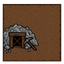
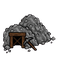
The mine lets the hill show through (#103)
Jeremy re-rolled it with the background spelled out: 28% of the tile opaque
rather than 81%, so a mined hill or mountain still reads as high ground.

diff --git a/ART_PROMPTS.md b/ART_PROMPTS.md
@@ -1503,7 +1503,7 @@ prompts, subjects and flavour are Jeremy's, in `docs/follies.md` and
 | `longVigilShrine` | building, Kingdom | a small shrine with one candle burning |
 | `learnedCommittee` | building, Kingdom | a round table, empty chairs, one very tall stack of papers |
 
-## Worked land — 2 of 2 done, `mine` worth a re-roll
+## Worked land — 2 of 2 done
 
 Section 112: what a worker makes of the ground. **Two overlays**, drawn over the
 terrain the way the roads are, in `art_src/terrain/improvements/`:
@@ -1532,10 +1532,10 @@ One prompt per file, changing only the bracketed line:
 
 `npm run art` keys out the magenta and writes `public/terrain/improvements/<name>.png`.
 
-**Both arrived.** `irrigation` works as a field filling its tile. `mine` came back on
-a solid square of dirt -- 81% of the tile opaque -- so it hides the hill or mountain it
-sits on, and the tile stops reading as high ground. A re-roll with the background
-spelled out should fix it:
+**Both arrived.** `irrigation` works as a field filling its tile. The first `mine` came
+back on a solid square of dirt -- 81% of the tile opaque -- and hid the hill it sat on;
+re-rolled with the prompt below it covers 28% and the high ground reads through. Kept
+for any future re-roll:
 
 > pixel art, top-down view, one single square tile for a fantasy strategy game map. In
 > the lower-left corner only, a small timber-framed mine entrance with a pickaxe
@@ -1544,4 +1544,3 @@ spelled out should fix it:
 > field, no grass, no shadow across the tile. Thick dark outline on the object only,
 > earthy browns, mid-1990s fantasy strategy game style, no text, no border.
 
-Drop it at `art_src/terrain/improvements/mine` and `npm run art` replaces the current one.
